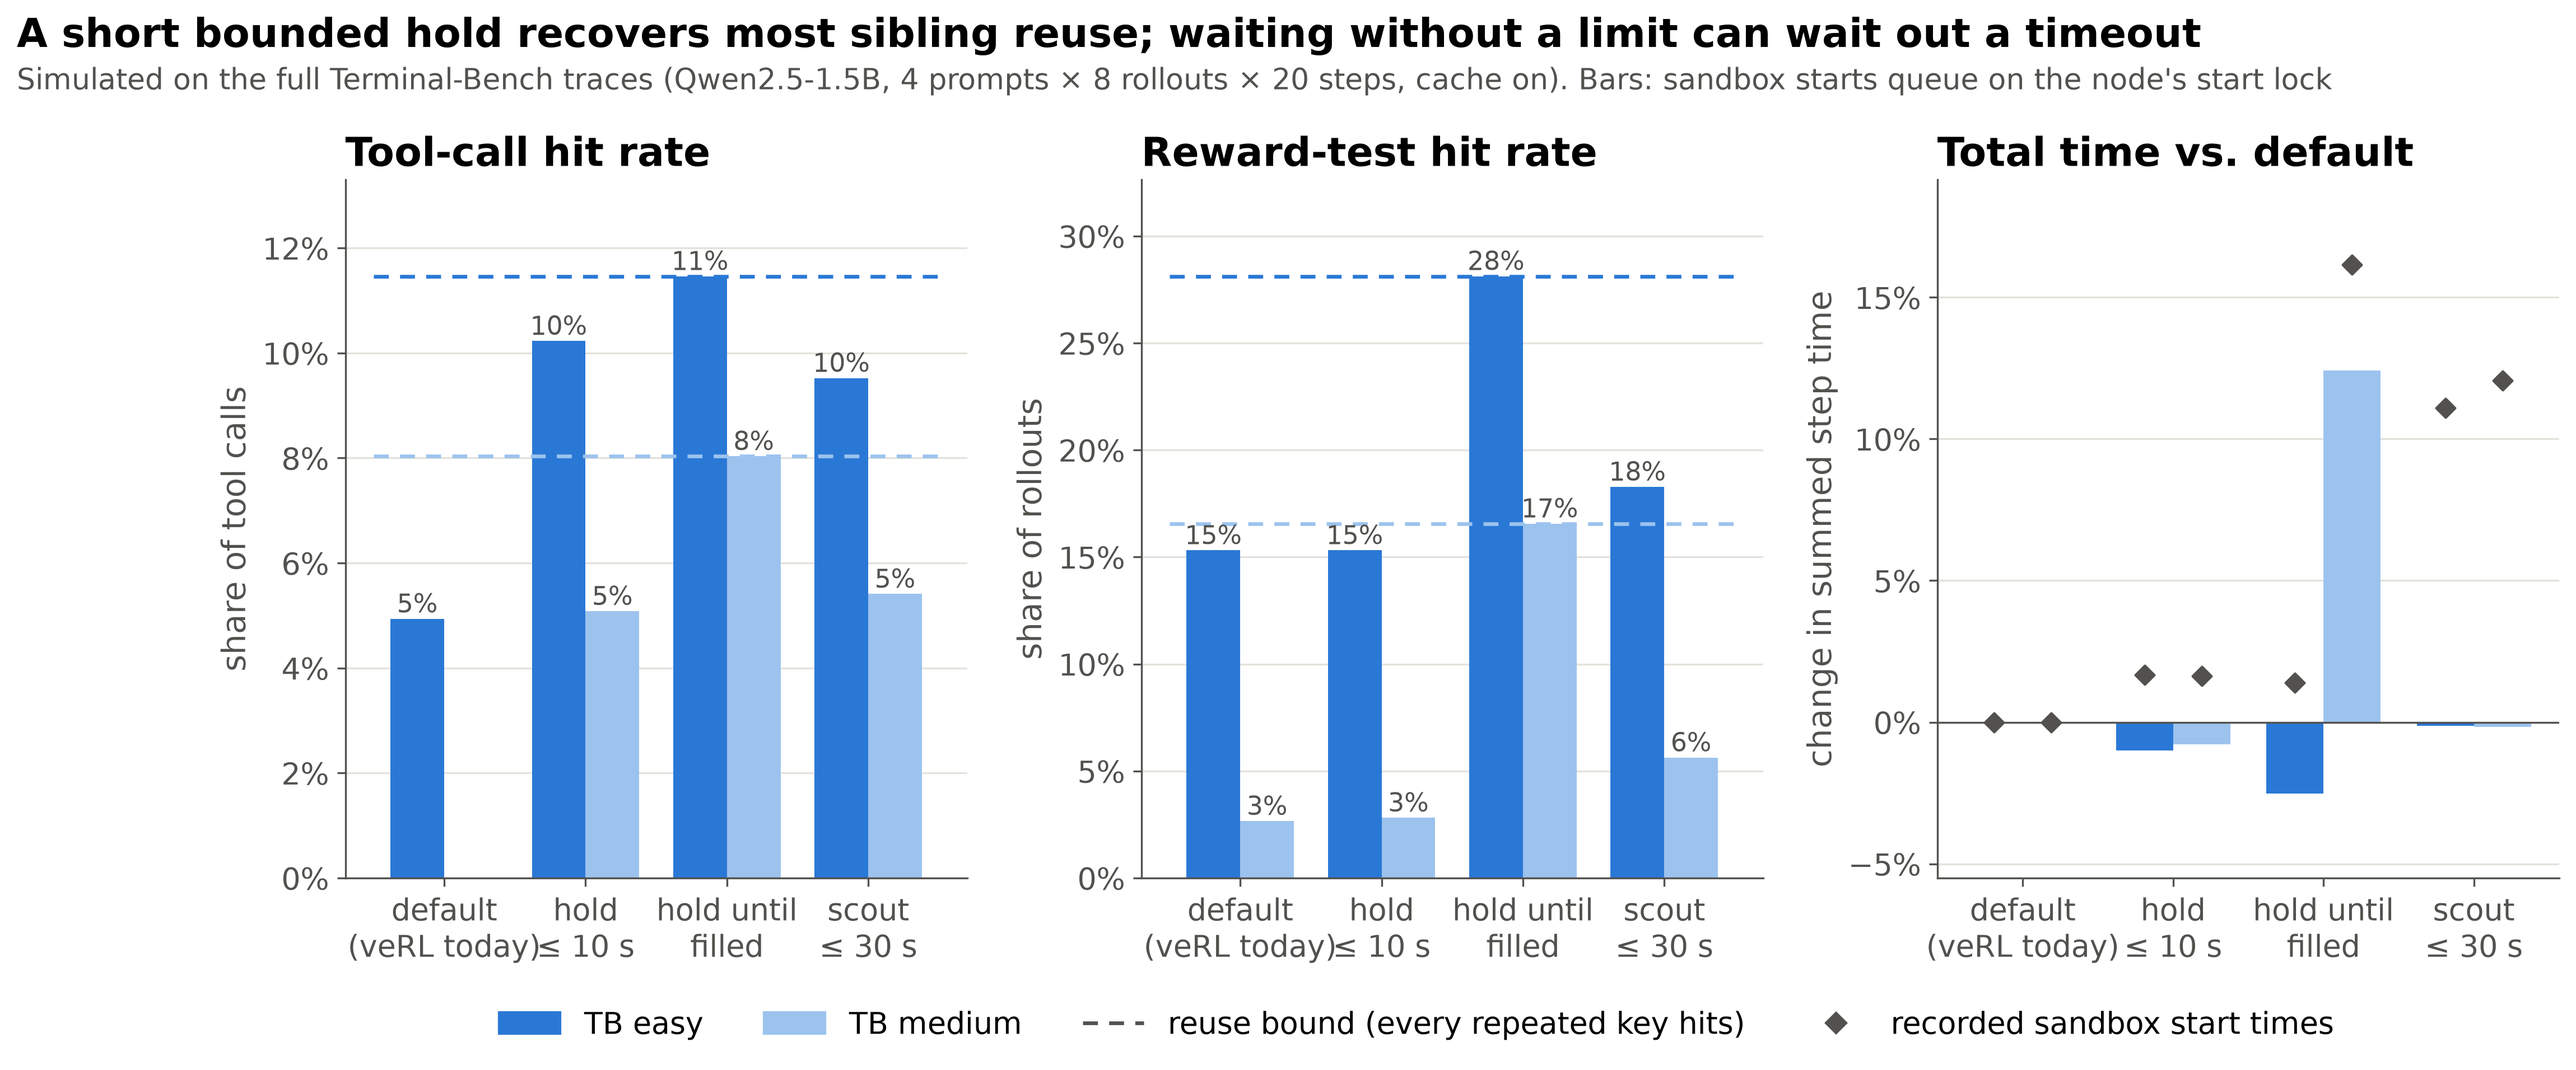
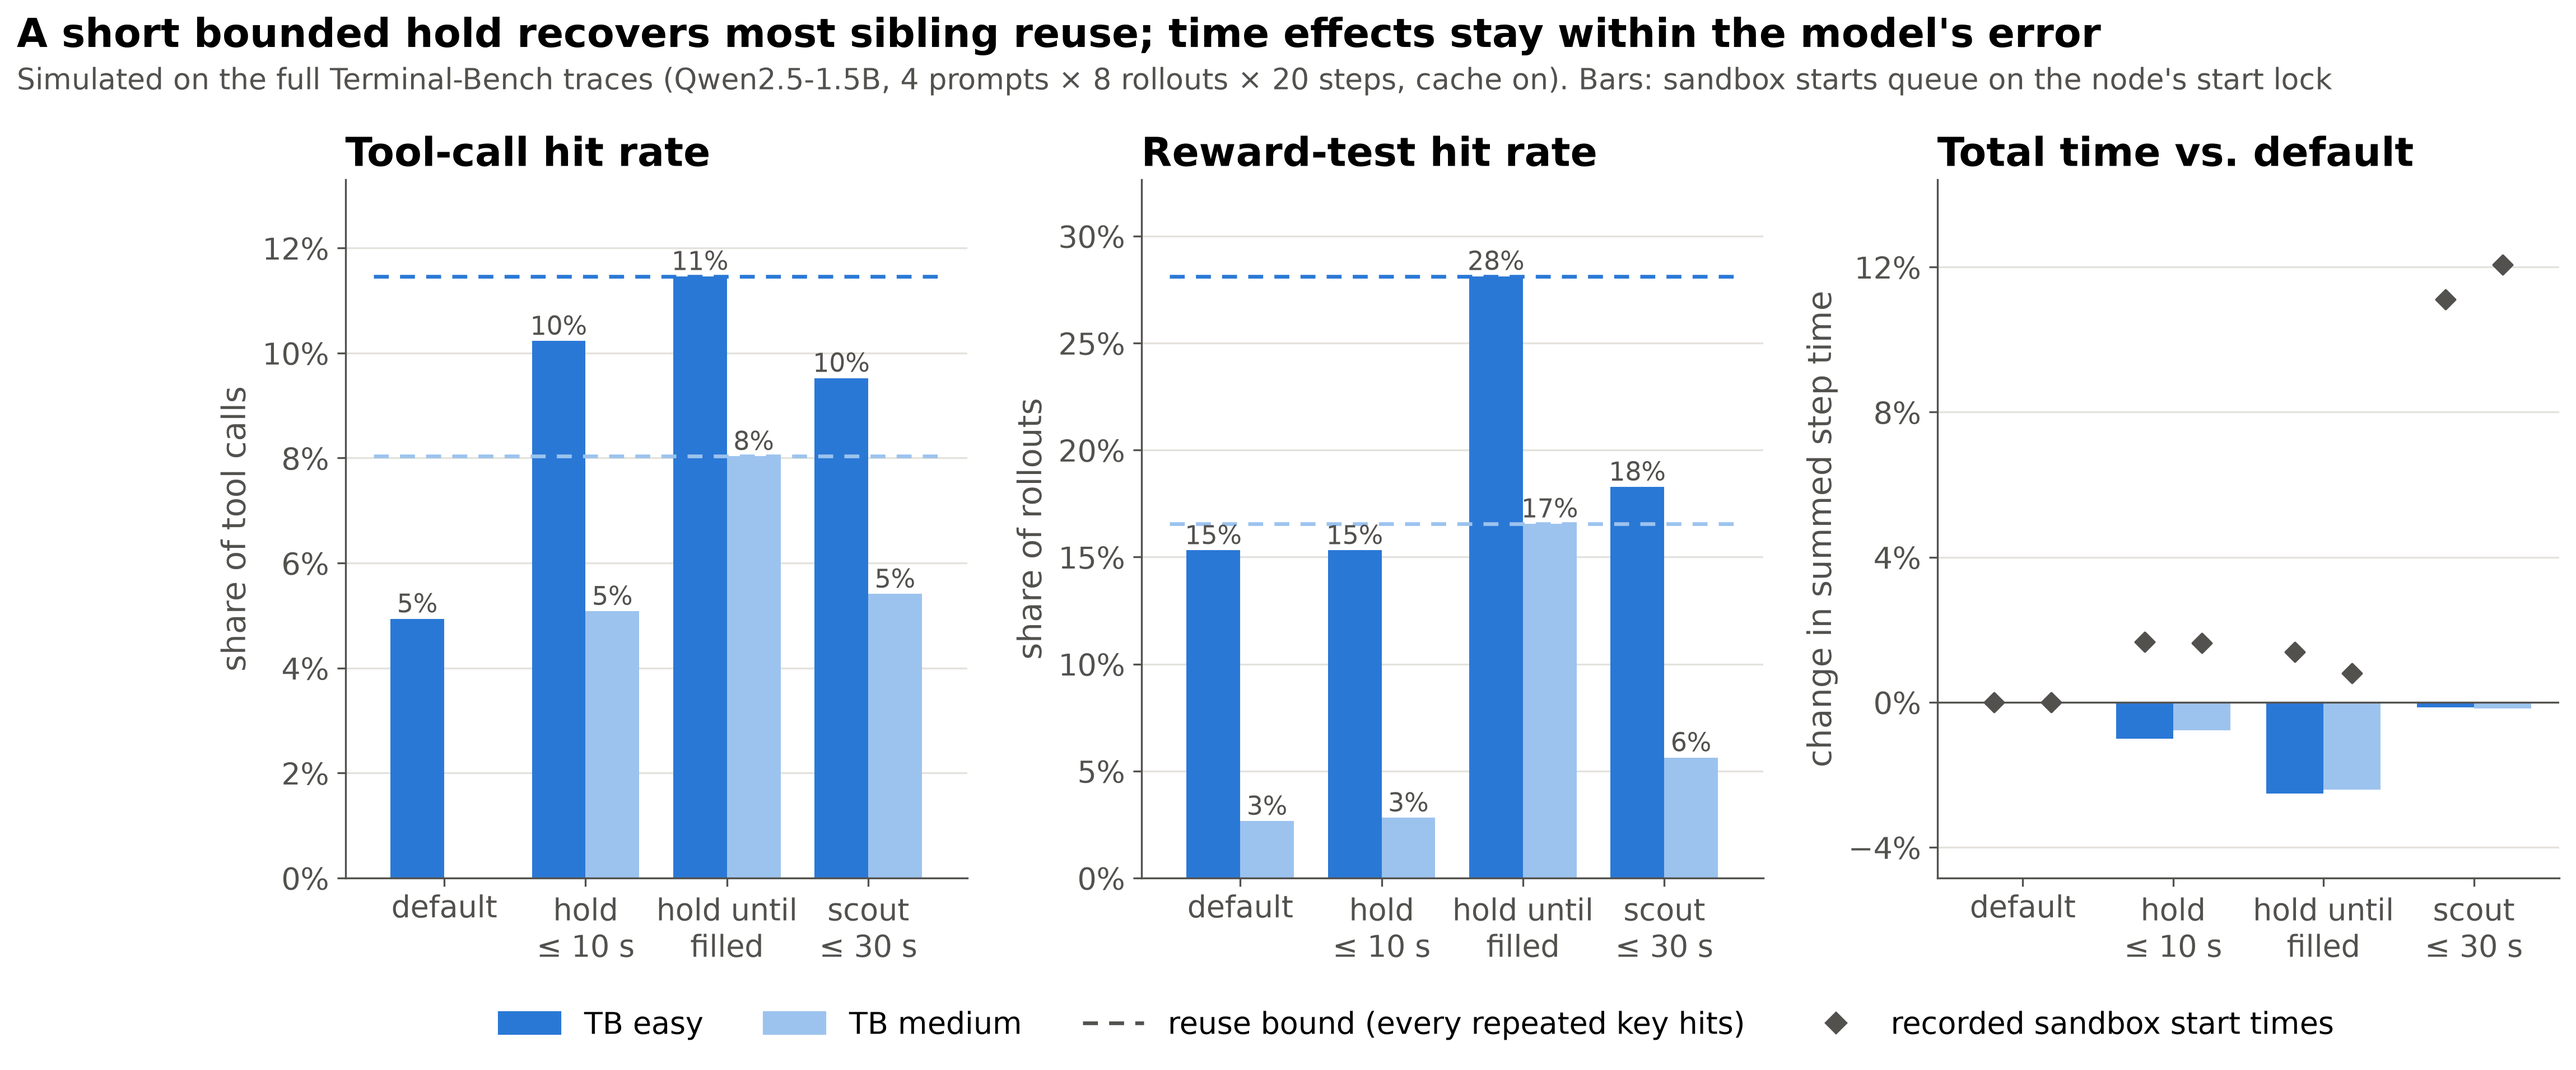
Address merge-review findings
- README: drop the stale no-snapshots bullet, move the simulator out of
  Next, correct cold-test p90, held-wait medians, bounded-hold range and
  the hold:inf timeout result after the wait-once fix
- results/poster_figures/README.md: add the fig6 row and how to
  regenerate it
- fig6: shorter x labels (no overlap), clean ticks on the time panel,
  title no longer claims an unbounded-hold cost
- cache-off snapshot fallback uses the key's median command time for both
  the segment flag and the replay estimate

Claude-Session: https://claude.ai/code/session_01A1pMFWcCNxvtdsSYJxyeRu

diff --git a/scripts/plot_sim.py b/scripts/plot_sim.py
@@ -12,9 +12,7 @@ scripts/plot_poster.py.
 * Time panel: total rollout time over the 20 steps against default, a paired
   comparison on the same trace. Bar = sandbox-lock queue model, diamond =
   recorded sandbox start times. Neither is validated for non-default
-  schedules. A 10 s hold stays within about +-2% under both; holding with no
-  limit costs +12-16% on TB medium under both (siblings wait out 600 s
-  timeouts); scout's sign depends on the model.
+  schedules, and the time effects shown are within the model's error.
 """
 
 from __future__ import annotations
@@ -39,7 +37,7 @@ from rsched.sim import Policy, load_run, simulate, summarize  # noqa: E402
 
 RUNS = [("tb-easy_cache-on", "TB easy"), ("tb-medium_cache-on", "TB medium")]
 POLICIES = [
-    ("default", "default\n(veRL today)"),
+    ("default", "default"),
     ("hold:10", "hold\n≤ 10 s"),
     ("hold:inf", "hold until\nfilled"),
     ("scout:30", "scout\n≤ 30 s"),
@@ -83,6 +81,7 @@ def draw(axes, pols, data, fixed, label_size, ub_lw):
         ax.scatter(xs, total_change(fixed[label]), marker="D", s=label_size * 3, color=INK2, zorder=5)
     ax.axhline(0, color=INK2, lw=0.8)
     ax.set_title("Total time vs. default")
+    ax.yaxis.set_major_locator(matplotlib.ticker.MaxNLocator(nbins=6, steps=[1, 2, 4, 5, 10]))
     for ax in axes:
         ax.set_xticks(range(n), [p for _, p in pols])
         ax.yaxis.grid(True, color=GRID)
@@ -113,7 +112,7 @@ def main() -> None:
     fig.legend(legend_handles(1.6), ["TB easy", "TB medium", "reuse bound (every repeated key hits)",
                                      "recorded sandbox start times"],
                ncol=4, loc="lower center", bbox_to_anchor=(0.5, -0.1), fontsize=13)
-    fig.suptitle("A short bounded hold recovers most sibling reuse; waiting without a limit can wait out a timeout",
+    fig.suptitle("A short bounded hold recovers most sibling reuse; time effects stay within the model's error",
                  x=0.01, ha="left", fontsize=17, fontweight="bold", y=1.06)
     fig.text(0.01, 0.98, "Simulated on the full Terminal-Bench traces (Qwen2.5-1.5B, 4 prompts × 8 rollouts × 20 steps, "
              "cache on). Bars: sandbox starts queue on the node's start lock", ha="left", fontsize=12.5, color=INK2)

diff --git a/rsched/sim/trace.py b/rsched/sim/trace.py
@@ -315,7 +315,7 @@ def load_run(
                         error=e.get("error") is not None,
                         seq=e["seq"],
                         trace_hit=bool(e["hit"]),
-                        snap=(e["key"] in snap_keys) if snap_keys is not None else cmd >= SNAPSHOT_MIN_S,
+                        snap=is_snap(e["key"]),
                     )
                 )
             else:  # score

diff --git a/README.md b/README.md
@@ -39,7 +39,7 @@ First findings
 
 Next
 
-- Simulator that replays the Terminal-Bench and SQL traces, so scheduling policies can be compared offline.
+- Simulator: done for Terminal-Bench (see [Simulator](#simulator)). Next, an accelerator model, so batch-by-prompt and priority policies can be compared too.
 - Reuse-aware scheduler that turns timing misses into hits: hold or delay sibling rollouts until the first call with the same key finishes. Test it in the simulator first, then in veRL.
 - Measure the scheduler by hit rate (against the upper bound) and by step time. Tool time must leave out sandbox start, the same as the baseline.
 - Look into why cache-on Terminal-Bench runs have longer step times than cache-off (about 200 s vs 134-151 s).
@@ -220,8 +220,7 @@ python scripts/validate_sim.py   # in-sample replay and cache-off -> cache-on pr
 Model notes:
 
 - **Sandbox start is not tool time, and most of it is queueing.** In the trace it is inside `t_end - t_start` of a rollout's first executed call. `podman run` runs under one node-wide `flock` (`terminal_podman.py`). An uncontended start takes about 1.2 s, so the recorded 16–20 s median is mostly waiting for other rollouts' starts. By default (`--sandbox queue`) the simulator models that lock as one FIFO queue shared by the whole run. Each start holds it for a time calibrated so that the default replay's total sandbox time equals the trace's: 1.37 s (easy) and 1.53 s (medium), above 1.2 s because some starts are slow. About 28% of that target is reconstructed rather than logged (see below). `--sandbox fixed` instead charges each rollout its recorded start time wherever it starts. Runs without podman starts (SQL) have no lock. A rollout whose calls and test all hit never starts a sandbox. A call that raises closes the sandbox, so the next execution starts a new one.
-- **The Terminal-Bench test is a cached call too.** `executor.test(history)` is keyed by the full history. Siblings with the same history share it, including all rollouts that made no tool call; those make up most of the test hits that holding adds. Cold tests take about 12 s (median), 37–43 s at p90.
-- **After a hit, a later miss re-runs the hit calls.** These runs keep no snapshots, so the sandbox has to catch up (`source=fresh, executed>1` in the trace). The simulator charges that replay.
+- **The Terminal-Bench test is a cached call too.** `executor.test(history)` is keyed by the full history. Siblings with the same history share it, including all rollouts that made no tool call; those make up most of the test hits that holding adds. Cold tests take about 12 s (median); p90 is 20 s on easy and 41 s on medium.
 - **Below an uncacheable call (a timeout), nothing is cached**, the test included. This is an assumption backed by one trace case. A call that raised is dropped from the history instead and doesn't break the chain.
 - A test hit costs about 0.5 s in a rollout with a live sandbox, which is stopped too, and about 0 s otherwise. Both values are measured from the trace.
 - A test result becomes visible to siblings 0.5 s before the call ends (the sandbox is stopped after the insert).
@@ -237,12 +236,13 @@ Model notes:
 - **What the timing misses are.** Every repeat inside a step of a key not already cached is a timing miss in these runs: 37 on easy, 49 on medium. Almost all are siblings issuing the same first call within about 3 s of the filler. Cross-step repeats (28 on easy) are already hits. Holding saves duplicated sandboxes and commands. It doesn't save latency, because the median held wait is about 20 s.
 - **Step time:** the CLI gives the per-step change (median, 10th–90th percentile) and the total change. Total time is a paired comparison on the same trace, but a few steps with 600 s timeouts dominate it, and the median hides them. Report both.
 - **Small step-time effects are inside the model's error.** The queue model's in-sample median step is 5–8% high.
-  - Bounded holds (`hold:5`–`hold:10`) change total time by −1% to +2.6%, and the two sandbox models disagree on the sign.
-  - The one robust effect is from holding with no limit. On TB medium, siblings of a call that times out wait out the 600 s, then run it anyway, so total time rises 12% (queue) to 16% (fixed). The cache-off twin shows +18% / +22%.
+  - `hold:10` changes total time by −1.0% to +4.4% across the four runs, and the two sandbox models disagree on the sign.
+  - `hold:inf` changes total time by −3.8% to +1.4% on three runs. On TB medium cache-off it adds +18% (queue) / +22% (fixed): a held sibling waits out a call that then times out after 600 s, and has to run it itself. That is one event, but it shows the risk of waiting with no limit.
+  - A call waits at most once. If the execution it waited for inserts nothing, it runs the call itself rather than queueing behind another sibling's retry.
   - A 10 s bound recovers most of the reuse anyway: tool hit rate 10.2% of a possible 11.5% on easy, 5.1% of 8.0% on medium.
-- **Where the waiting goes.** Most held seconds are on tests, not tool calls. Held tool calls wait a median of about 5–7 s, held tests about 20–30 s. Most of the sandbox starts holding saves come from no-tool rollouts whose test now hits. On TB medium, the starts saved don't cover the waiting.
+- **Where the waiting goes.** Most held seconds are on tests, not tool calls. Held tool calls wait a median of about 5–8 s, held tests about 30–35 s. Most of the sandbox starts holding saves come from no-tool rollouts whose test now hits. On TB medium, the starts saved don't cover the waiting.
 - **Neither sandbox model is validated for non-default schedules.** The queue model's step-time gains come from fewer sandbox starts. The fixed model charges a delayed rollout its recorded queued start, which overstates the cost of delaying it. The figures show both.
-- **No accelerator model.** Batch-by-prompt and priority policies, and the hit-rate vs. accelerator-idle trade-off, need one. Scout can only cost time here, because holding siblings back frees nothing.
+- **No accelerator model.** Batch-by-prompt and priority policies, and the hit-rate vs. accelerator-idle trade-off, need one. Scout frees no GPU time here; in the queue model it only spreads out sandbox starts.
 
 Validation (`scripts/validate_sim.py`):
 

diff --git a/results/poster_figures/README.md b/results/poster_figures/README.md
@@ -1,7 +1,7 @@
 # Poster figures
 
 fig1, fig2, fig3 and fig5 use the full runs in `results/sql_full_b4n8` and `results/tbench_full_b4n8` (20 GRPO steps, 4 prompts × 8 rollouts). fig4 and fig5_siblings_sql_prefix use `results/sql_full_n16`, the only runs from before the TVCache fix. Tool time counts command execution only; sandbox (container) start is left out.
-Regenerate them with `python scripts/plot_poster.py`. Each figure is saved as PNG (300 dpi).
+Regenerate them with `python scripts/plot_poster.py`; fig6 comes from the simulator and is regenerated with `python scripts/plot_sim.py`. Each figure is saved as PNG (300 dpi).
 The colors mean the same thing in every figure: blue is a hit, orange is a timing miss, and gray is a cold miss.
 
 | Figure | What it shows | How to read it |
@@ -12,3 +12,4 @@ The colors mean the same thing in every figure: blue is a hit, orange is a timin
 | `fig4_tcp_nodelay_fix` | Median cold-call time and the number of timing misses on SkyRL-SQL: before the fix, after it, and with the cache off. | Adding TCP_NODELAY to TVCache cut each call from 88 ms to 2 ms. The slow calls had also inflated timing misses (7 before the fix, 1 after). |
 | `fig5_siblings_sql` / `fig5_siblings_terminal` | One real GRPO group over time: generation, sandbox start, the first copy of a shared call, timing misses, other cold misses, and hits. Full runs, 8 siblings per prompt. | On Terminal-Bench, 7 of 8 siblings issue the same first call while its first copy is still running, so they all miss. On SQL, calls take about 2 ms, so this almost never happens: the whole run has 1 timing miss. |
 | `fig5_siblings_sql_prefix` | The same kind of plot for SkyRL-SQL before the TVCache fix, 16 siblings per prompt (`results/sql_full_n16`). | 4 siblings miss on the same first call. Before the fix each call took about 88 ms instead of 2 ms, which made these collisions more likely. |
+| `fig6_sim_policies` / `fig6_sim_policies_column` | Simulated policies on the full Terminal-Bench cache-on runs: tool and reward-test hit rate (dashed: reuse bound, every repeated call hits) and total time against default. Bars use the sandbox-lock queue model; diamonds use the recorded sandbox start times. The column version, sized for one poster column, shows default and the two holds. | A 10 s hold gets most of the reuse (tool hits 4.9 → 10.2% on easy, 0 → 5.1% on medium). Its time effect is within ±2% here and inside the model's error. See the Simulator section of the main README. |
